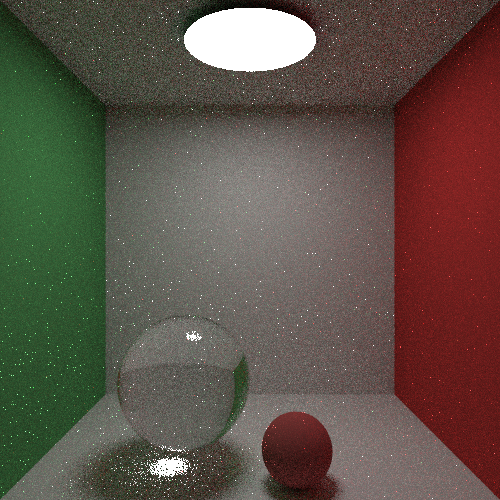
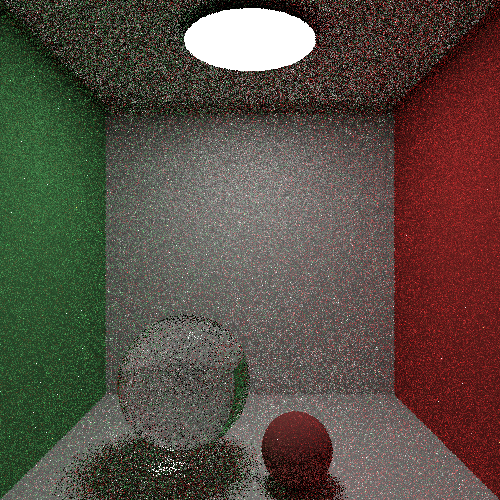
FIX: fix mis sampling implementation

diff --git a/src/integrator/path_integrator.rs b/src/integrator/path_integrator.rs
@@ -17,85 +17,88 @@ impl PathIntegrator {
     }
 }
 
-// fn power_heuristic(n1: i32, p1: f64, n2: i32, p2: f64) -> f64 {
-//     let np1 = n1 as f64 * p1;
-//     let np2 = n2 as f64 * p2;
-//     (np1 * np1) / (np1 * np1 + np2 * np2)
-// }
+fn power_heuristic(n1: i32, p1: f64, n2: i32, p2: f64) -> f64 {
+    let np1 = n1 as f64 * p1;
+    let np2 = n2 as f64 * p2;
+    (np1 * np1) / (np1 * np1 + np2 * np2)
+}
 
-// fn multiple_importance_sampling(scene: &Scene, sampler: &Arc<dyn Sampler>, bsdf: &Bsdf, isect: &SurfaceInteraction, ray: &Ray, throughput: Spectrum) -> Spectrum {
-//     let mut res = Spectrum::black();
+fn multiple_importance_sampling(scene: &Scene, sampler: &Arc<dyn Sampler>, bsdf: &Bsdf, isect: &SurfaceInteraction, ray: &Ray, throughput: Spectrum) -> Spectrum {
+    let mut res = Spectrum::black();
 
-//     {
-//         let (light, light_pdf) = scene.lightlist.importance_sample_light(sampler.get_2d());
+    {
+        let (light, light_pdf) = scene.lightlist.importance_sample_light(sampler.get_2d());
 
-//         // sample light
-//         let light_sample = light.sample_li(&isect, sampler.get_2d());
-//         let l_pdf = light_sample.pdf_area_to_solid(&isect) * light_pdf;
-//         let li = light_sample.le;
+        // sample light
+        let light_sample = light.sample_li(&isect, sampler.get_2d());
+        let l_pdf = light_sample.pdf_area_to_solid(&isect) * light_pdf;
+        let li = light_sample.le;
 
-//         res += if l_pdf > 0.0 && !li.is_black() && visibility_test(&isect, light_sample.position, scene) {
-//             let wi = -light_sample.dir;
-//             let wo = -ray.d.normalize();
-//             let rho = bsdf.f(wo, wi);
-//             let b_pdf = bsdf.pdf(wo, wi);
-//             let cosine = wi.dot(isect.geo.n).abs();
+        res += if l_pdf > 0.0 && !li.is_black() && visibility_test(&isect, light_sample.position, scene) {
+            let wi = -light_sample.dir;
+            let wo = -ray.d.normalize();
+            let rho = bsdf.f(wo, wi);
+            let b_pdf = bsdf.pdf(wo, wi);
+            let cosine = wi.dot(isect.geo.n).abs();
 
-//             let weight = if light_sample.is_delta { 
-//                 power_heuristic(1, l_pdf, 1, b_pdf)
-//             } else {
-//                 1.0
-//             };
+            let weight = if light_sample.is_delta { 
+                power_heuristic(1, l_pdf, 1, b_pdf)
+            } else {
+                1.0
+            };
 
-//             weight * li * throughput * rho * cosine / l_pdf
-//         } else {
-//             Spectrum::black()
-//         };
+            weight * li * throughput * rho * cosine / l_pdf
+        } else {
+            Spectrum::black()
+        };
 
-//         if light_sample.is_delta {
-//             // if the sampled light is delta light, do not sample the bsdf cause there's no need
-//             return res;
-//         }
-//     }
+        if light_sample.is_delta {
+            // if the sampled light is delta light, do not sample the bsdf cause there's no need
+            return res;
+        }
+    }
 
-//     {
-//         // sample bsdf 
-//         let wo = -ray.d.normalize();
-//         let bsdf_sample = bsdf.sample_f(wo, sampler.get_2d());
+    {
+        // sample bsdf 
+        let wo = -ray.d.normalize();
+        let bsdf_sample = bsdf.sample_f(wo, sampler.get_2d());
 
-//         let wi = bsdf_sample.wi;
-//         let b_pdf = bsdf_sample.pdf;
-//         let rho = bsdf_sample.rho;
+        let wi = bsdf_sample.wi;
+        let b_pdf = bsdf_sample.pdf;
+        let rho = bsdf_sample.rho;
 
-//         // shoot a ray
-//         let mut new_ray = Ray::new(isect.geo.p, wi, ray.time, INFINITY);
-//         let (li, l_pdf) = if let Some(inter) = scene.intersect(&mut new_ray) {
-//             if inter.hit_light {
-//                 let l_pdf = inter.light.pdf();
-//                 (inter.radiance.unwrap(), l_pdf)
-//             } else {
-//                 (Spectrum::black(), 0.0)
-//             }
-//         } else {
-//             (Spectrum::black(), 0.0)
-//         };
+        // shoot a ray
+        let mut new_ray = Ray::new(isect.geo.p, wi, ray.time, INFINITY);
+        let (li, l_pdf) = if let Some(inter) = scene.intersect(&mut new_ray) {
+            if inter.hit_light {
+                let l_pdf = inter.light.unwrap().pdf(inter.geo.p, inter.geo.n, isect.geo.p);
+                (inter.radiance.unwrap(), l_pdf)
+            } else {
+                (Spectrum::black(), 0.0)
+            }
+        } else {
+            (Spectrum::black(), 0.0)
+        };
 
 
-//         res += if b_pdf > 0.0 && !li.is_black() {
-//             let cosine = wi.dot(isect.geo.n).abs();
-//             li * throughput * rho * cosine / b_pdf
-//         } else {
-//             Spectrum::black()
-//         };
-//     }
+        res += if b_pdf > 0.0 && !li.is_black() {
+            let cosine = wi.dot(isect.geo.n).abs();
+            let weight = power_heuristic(1, b_pdf, 1, l_pdf);
+            weight * li * throughput * rho * cosine / b_pdf
+        } else {
+            Spectrum::black()
+        };
+    }
 
-//     res
-// }
+    res
+}
 
 fn sample_one_light(scene: &Scene, sampler: &Arc<dyn Sampler>, bsdf: &Bsdf, isect: &SurfaceInteraction, ray: &Ray, throughput: Spectrum) -> Spectrum {
     let (light, light_pdf) = scene.lightlist.importance_sample_light(sampler.get_2d());
     let light_sample = light.sample_li(&isect, sampler.get_2d());
+
     let l_pdf = light_sample.pdf_area_to_solid(&isect) * light_pdf;
+
     let li = light_sample.le;
 
     if l_pdf > 0.0 && !li.is_black() && visibility_test(&isect, light_sample.position, scene) {
@@ -132,7 +135,7 @@ impl Integrator for PathIntegrator {
                     // sample lights to estimate the radiance value
                     // if !specular && self.b_mis {
                     if self.b_mis {
-                        // radiance += multiple_importance_sampling(scene, sampler, &bsdf, &isect, ray, throughput); 
+                        radiance += multiple_importance_sampling(scene, sampler, &bsdf, &isect, ray, throughput); 
                     } else {
                         radiance += sample_one_light(scene, sampler, &bsdf, &isect, ray, throughput)
                     }

diff --git a/src/light/area.rs b/src/light/area.rs
@@ -1,4 +1,4 @@
-use cgmath::{Point3, Point2, InnerSpace};
+use cgmath::{Point3, Point2, InnerSpace, Vector3};
 use crate::{geometry::{interaction::SurfaceInteraction, ray::Ray, shape::Shape}, spectrum::Spectrum};
 
 use super::{Light, LightSample};
@@ -52,12 +52,22 @@ impl Light for AreaLight {
                 time: r.time,
                 material: None,
                 hit_light: true,
-                radiance: Some(radiance)
+                radiance: Some(radiance),
+                light: None,
             };
 
             Some(isect)
         } else {
             None
         }
+    }
+
+    fn pdf(&self, isect_p: Point3<f64>, isect_n: Vector3<f64>, p: Point3<f64>) -> f64 {
+        let distance2 = (isect_p - p).magnitude2();
+        let we = (isect_p - p).normalize();
+        let cos_alpha = we.dot(isect_n).max(0.0);
+
+        let pdf_area = 1.0 / self.shape.area();
+        pdf_area * distance2 / cos_alpha
     }
 }

diff --git a/src/light/mod.rs b/src/light/mod.rs
@@ -12,6 +12,8 @@ pub trait Light: Sync + Send {
     fn le(&self) -> Spectrum;
     fn intersect_p(&self, r: &Ray) -> Option<f64>;
     fn intersect(&self, r: &mut Ray) -> Option<SurfaceInteraction>;
+    // return the pdf with respect to the solid angle, p is the lit point
+    fn pdf(&self, isect_p: Point3<f64>, isect_n: Vector3<f64>, p: Point3<f64>) -> f64;
 }
 
 pub struct LightList {
@@ -59,8 +61,10 @@ impl LightSample {
         let we = (isect.geo.p - self.position).normalize();
         let cos_alpha = we.dot(self.normal);
 
-        if cos_alpha > 0.0 {
+        if cos_alpha > 0.0 && !self.is_delta {
             self.pdf * distance2 / cos_alpha
+        }  else if self.is_delta{
+            self.pdf * distance2
         } else {
             0.0 // garbage value?
         }

diff --git a/src/light/point.rs b/src/light/point.rs
@@ -43,7 +43,7 @@ impl Light for PointLight {
     }
 
     fn le(&self) -> Spectrum {
-        panic!("This method should not be called");
+        self.le
     }
 
     fn intersect_p(&self, _r: &crate::geometry::ray::Ray) -> Option<f64> {
@@ -52,5 +52,9 @@ impl Light for PointLight {
 
     fn intersect(&self, _r: &mut Ray) -> Option<SurfaceInteraction> {
         None
+    }
+
+    fn pdf(&self, _isect_p: Point3<f64>, _isect_n: Vector3<f64>, _p: Point3<f64>) -> f64 {
+        0.0
     }
 }

diff --git a/src/geometry/interaction.rs b/src/geometry/interaction.rs
@@ -1,7 +1,7 @@
 use std::sync::Arc;
 
 use cgmath::{Point3, Vector3};
-use crate::{material::Material, spectrum::Spectrum};
+use crate::{material::Material, spectrum::Spectrum, light::Light};
 
 
 pub struct GeometryInfo {
@@ -18,4 +18,5 @@ pub struct SurfaceInteraction {
     pub material: Option<Arc<dyn Material>>,
     pub hit_light: bool,
     pub radiance: Option<Spectrum>,
+    pub light: Option<Arc<dyn Light>>,
 }

diff --git a/src/scene.rs b/src/scene.rs
@@ -44,7 +44,9 @@ impl Scene {
         let mut ret = self.aggregate.intersect(r);
 
         for light in self.lightlist.lights.iter() {
-            if let Some(isect) = light.intersect(r) {
+            if let Some(mut isect) = light.intersect(r) {
+                // record the light that is hit
+                isect.light = Some(light.clone());
                 ret = Some(isect);
             }
         }

diff --git a/src/primitive/geometric_primitive.rs b/src/primitive/geometric_primitive.rs
@@ -26,6 +26,7 @@ impl Primitive for GeometricPrimitive {
                 material: Some(Arc::clone(&self.material)),
                 hit_light: false,
                 radiance: None,
+                light: None,
             };
 
             // let isect point to the primitive
